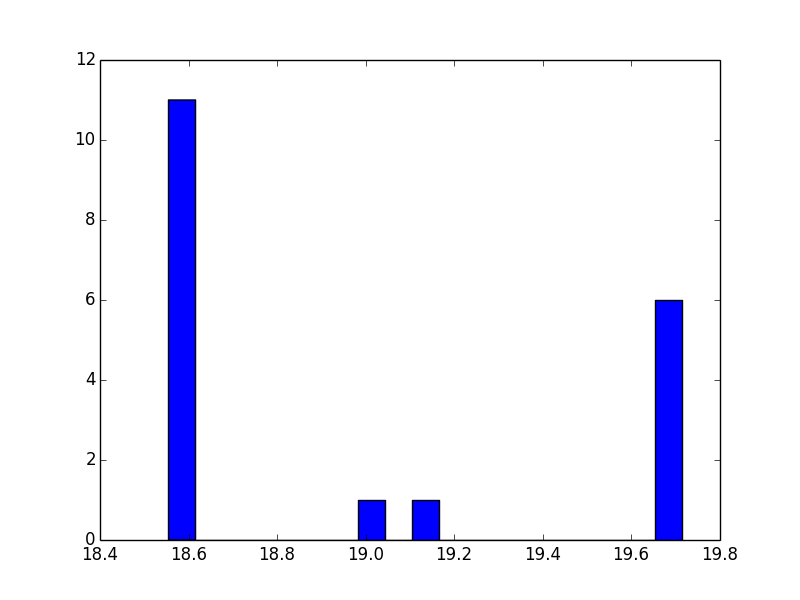
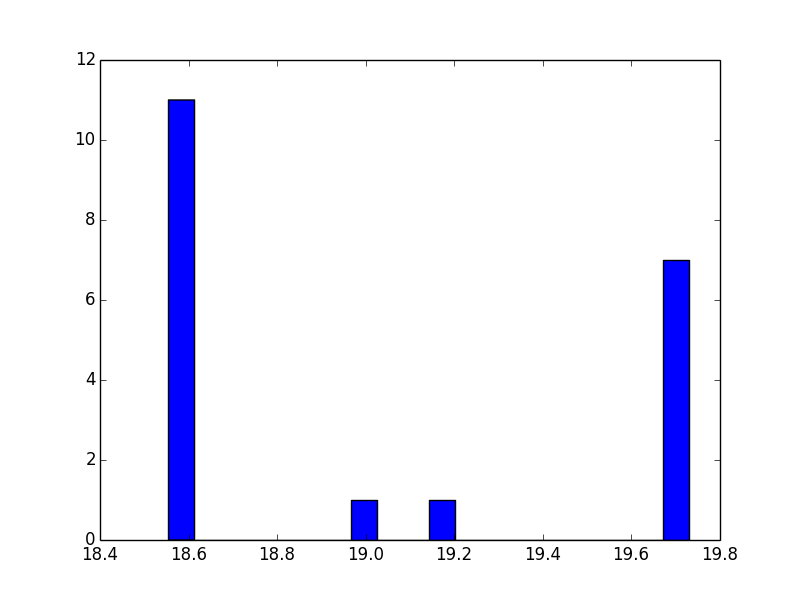
Some tests

Changed region(s): [[0.8125, 0.42, 0.875, 0.9], [0.2188, 0.18, 0.25, 0.9], [0.4375, 0.81, 0.5938, 0.9]]

diff --git a/onlinepython/tests.py b/onlinepython/tests.py
@@ -1,0 +1,75 @@
+# -*- coding: utf-8 -*-
+"""
+Created on Sat Nov 29 21:08:36 2014
+
+@author: Harri
+"""
+
+import os
+import string
+import random
+import unittest
+import db
+import pypy_runner as pyrun
+
+def generate_string(length=5):
+    """ Generates random string of length (default: 5). """
+    # http://stackoverflow.com/questions/2257441/
+    # random-string-generation-with-upper-case-letters-and-digits-in-python
+    return ''.join(random.choice(string.ascii_lowercase + string.digits)
+                    for _ in range(length))
+
+class TestSequenceFunctions(unittest.TestCase):
+    """ Class implementing all the test cases. """
+
+    def setUp(self):
+        """ Sets up the test before each method. """
+        self.seq = range(10)
+
+    def test_credentials_wrong(self):
+        """ Tests credential checking with wrong credentials. """
+        # Generate some random credentials
+        username = generate_string()
+        password = generate_string()
+        self.assertEqual(False, db.check_interview_credentials(username,
+                                                               password))
+
+    def test_credentials_corr(self):
+        """ Tests credential checking with correct credentials. """
+        username = "asdasd"
+        password = "asdasd"
+        self.assertEqual(True, db.check_interview_credentials(username,
+                                                              password))
+    def test_output_wrong(self):
+        """ Tests if wrong output is catched correctly from pypy_runner. """
+        sfilename = "testscript.py"
+        output = generate_string(20)
+        script = 'print("'+output+'")'
+        sfile = open(sfilename, "w")
+        sfile.write(script)
+        sfile.close()
+        result = pyrun.check_output(sfilename, output+"wrong")
+        os.remove(sfilename)
+        self.assertEqual(False, result['correct'])
+
+    def test_output_corr(self):
+        """ Tests if correct output is catched correctly from pypy_runner. """
+        sfilename = "testscript.py"
+        output = generate_string(20)
+        script = 'print("'+output+'")'
+        sfile = open(sfilename, "w")
+        sfile.write(script)
+        sfile.close()
+        result = pyrun.check_output(sfilename, output)
+        os.remove(sfilename)
+        self.assertEqual(True, result['correct'])
+
+    def test_sample(self):
+        """ Sample test. """
+        with self.assertRaises(ValueError):
+            random.sample(self.seq, 20)
+        for element in random.sample(self.seq, 5):
+            self.assertTrue(element in self.seq)
+
+if __name__ == '__main__':
+    unittest.main()

diff --git a/onlinepython/db.py b/onlinepython/db.py
@@ -8,6 +8,7 @@ Created on Sun Oct  5 19:11:58 2014
 #Python modules
 from peewee import IntegrityError
 import matplotlib
+# Needed for command line usage if no X available (in linux)
 matplotlib.use('Agg')
 import matplotlib.pyplot as plt
 
@@ -47,12 +48,21 @@ def add_solution(solution):
 
     all_exercises = set([solution.exercise.id for solution in solutions])
 
+    # Loop through all exercises and create plots
     for exercise_id in all_exercises:
         mem_usage = [solution.memory_usage/megabyte for solution in solutions
                 if solution.exercise.id == exercise_id]
+        time_usage = [solution.execution_time for solution in solutions
+                if solution.exercise.id == exercise_id]
+        # Memory usage plots
         xbins = min(len(mem_usage), 20)
         plt.hist(mem_usage, bins=xbins, color='blue')
-        plt.savefig("public/plot/plot_"+str(exercise_id)+".png")
+        plt.savefig("public/plot/plot_mem_"+str(exercise_id)+".png")
+        plt.close()
+        # Time usage plots
+        xbins = min(len(time_usage), 20)
+        plt.hist(time_usage, bins=xbins, color='blue')
+        plt.savefig("public/plot/plot_time_"+str(exercise_id)+".png")
         plt.close()
 
 def get_solutions(exercise_id=None, solution_id=None):
